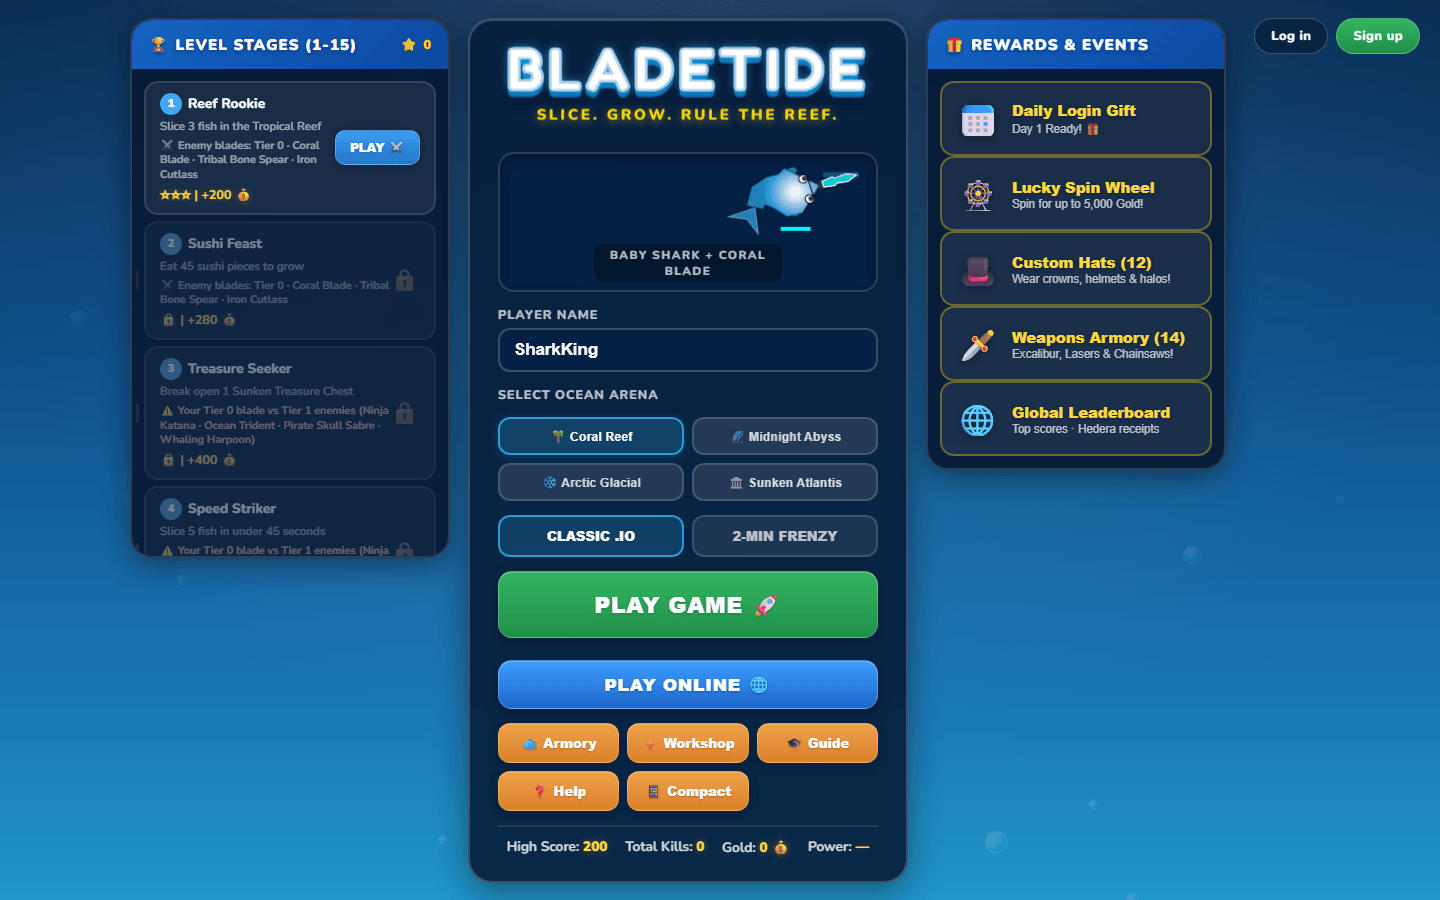
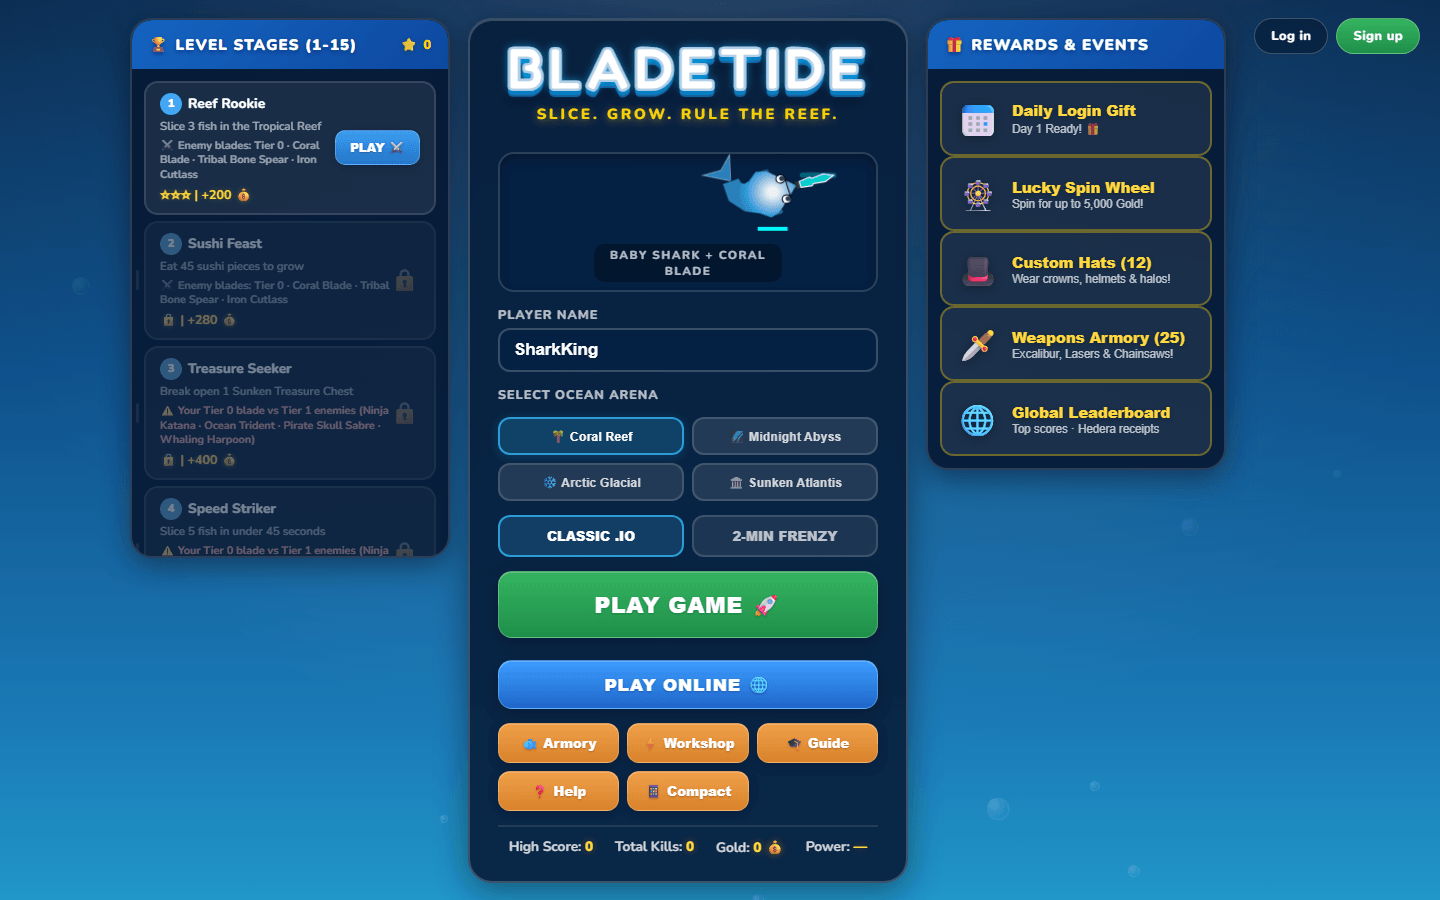
fix(web): align armory counts with the full catalog

diff --git a/apps/web/index.html b/apps/web/index.html
@@ -165,7 +165,7 @@
                     <button class="event-banner-btn" onclick="openShop('weapons')">
                         <div class="event-icon">🗡</div>
                         <div>
-                            <div class="event-title">Weapons Armory (14)</div>
+                            <div class="event-title">Weapons Armory (25)</div>
                             <div class="event-desc">Excalibur, Lasers & Chainsaws!</div>
                         </div>
                     </button>
@@ -275,8 +275,8 @@
                 </div>
 
                 <div class="shop-tabs">
-                    <button class="shop-tab active" id="tabFish" onclick="switchShopTab('fish')">🐟 Fish Species (16)</button>
-                    <button class="shop-tab" id="tabWeapons" onclick="switchShopTab('weapons')">🗡 Weapons (14)</button>
+                    <button class="shop-tab active" id="tabFish" onclick="switchShopTab('fish')">🐟 Fish Species (24)</button>
+                    <button class="shop-tab" id="tabWeapons" onclick="switchShopTab('weapons')">🗡 Weapons (25)</button>
                     <button class="shop-tab" id="tabHats" onclick="switchShopTab('hats')">🎩 Hats (12)</button>
                     <button class="shop-tab" id="tabUpgrades" onclick="switchShopTab('upgrades')">⚡ Workshop Upgrades</button>
                 </div>

diff --git a/apps/web/src/entities.js b/apps/web/src/entities.js
@@ -1,5 +1,5 @@
 /**
- * Bladetide - Entities (Fish, Sharks, 14 Weapons, 16 Species, 12 Hats, Power-ups & Kinematics)
+ * Bladetide - Entities (Fish, Sharks, 25 Weapons, 24 Species, 12 Hats, Power-ups & Kinematics)
  */
 class Fish {
     constructor(x, y, name = 'Fish', skinId = 'baby_shark', weaponId = 'coral_dagger', isBot = false, hatId = 'none') {
